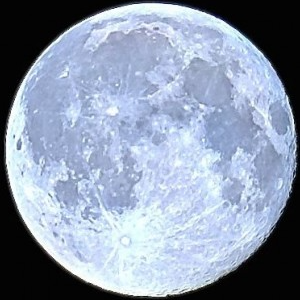
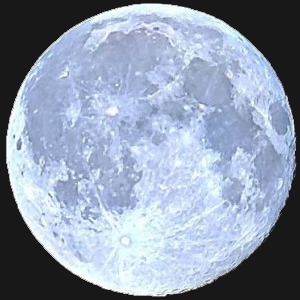
gui update moonlight phases

diff --git a/mw4/gui/mainWmixin/tabAlmanac.py b/mw4/gui/mainWmixin/tabAlmanac.py
@@ -87,6 +87,8 @@ class Almanac(object):
         self.ui.checkTimezoneUTC.clicked.connect(self.displayTwilightData)
         self.ui.checkTimezoneLocal.clicked.connect(self.displayTwilightData)
 
+        self.searchTwilight()
+        self.displayTwilightData()
         self.app.update1s.connect(self.updateMoonPhase)
         self.lunarNodes()
 
@@ -387,19 +389,21 @@ class Almanac(object):
         maskP = QPainter(mask)
         maskP.setBrush(Qt.SolidPattern)
         maskP.setBrush(QColor(255, 255, 255))
+        maskP.setPen(QPen(QColor(255, 255, 255)))
         maskP.drawRect(0, 0, width, height)
 
         if moonPhaseDegree <= 90:
+            maskP.setBrush(QColor(48, 48, 48))
+            maskP.drawPie(0, 0, width, height, 90 * 16, 180 * 16)
+
             r = np.cos(np.radians(moonPhaseDegree)) * width / 2
-            maskP.setBrush(QColor(0, 0, 0))
+            maskP.setBrush(QColor(48, 48, 48))
+            maskP.setPen(QPen(QColor(48, 48, 48)))
             maskP.drawEllipse(QPointF(width / 2, height / 2), r, height / 2)
 
-            maskP.setBrush(QColor(0, 0, 0))
-            maskP.drawRect(0, 0, width / 2, height)
-
         elif 90 < moonPhaseDegree <= 180:
-            maskP.setBrush(QColor(0, 0, 0))
-            maskP.drawRect(0, 0, width / 2, height)
+            maskP.setBrush(QColor(48, 48, 48))
+            maskP.drawPie(0, 0, width, height, 90 * 16, 180 * 16)
 
             r = - np.cos(np.radians(moonPhaseDegree)) * width / 2
             maskP.setBrush(QColor(255, 255, 255))
@@ -407,8 +411,8 @@ class Almanac(object):
             maskP.drawEllipse(QPointF(width / 2, height / 2), r, height / 2)
 
         elif 180 < moonPhaseDegree <= 270:
-            maskP.setBrush(QColor(0, 0, 0))
-            maskP.drawRect(width / 2, 0, width / 2, height)
+            maskP.setBrush(QColor(48, 48, 48))
+            maskP.drawPie(0, 0, width, height, - 90 * 16, 180 * 16)
 
             r = - np.cos(np.radians(moonPhaseDegree)) * width / 2
             maskP.setBrush(QColor(255, 255, 255))
@@ -416,13 +420,13 @@ class Almanac(object):
             maskP.drawEllipse(QPointF(width / 2, height / 2), r, height / 2)
 
         else:
-            r = np.cos(np.radians(moonPhaseDegree)) * width / 2
-            maskP.setPen(QPen(QColor(0, 0, 0)))
-            maskP.setBrush(QColor(0, 0, 0))
-            maskP.drawEllipse(QPointF(width / 2, height / 2), r, height / 2)
+            maskP.setBrush(QColor(48, 48, 48))
+            maskP.drawPie(0, 0, width, height, -90 * 16, 180 * 16)
 
-            maskP.setBrush(QColor(0, 0, 0))
-            maskP.drawRect(width / 2, 0, width / 2, height)
+            r = np.cos(np.radians(moonPhaseDegree)) * width / 2
+            maskP.setPen(QPen(QColor(48, 48, 48)))
+            maskP.setBrush(QColor(48, 48, 48))
+            maskP.drawEllipse(QPointF(width / 2, height / 2), r, height / 2)
 
         maskP.end()
 
